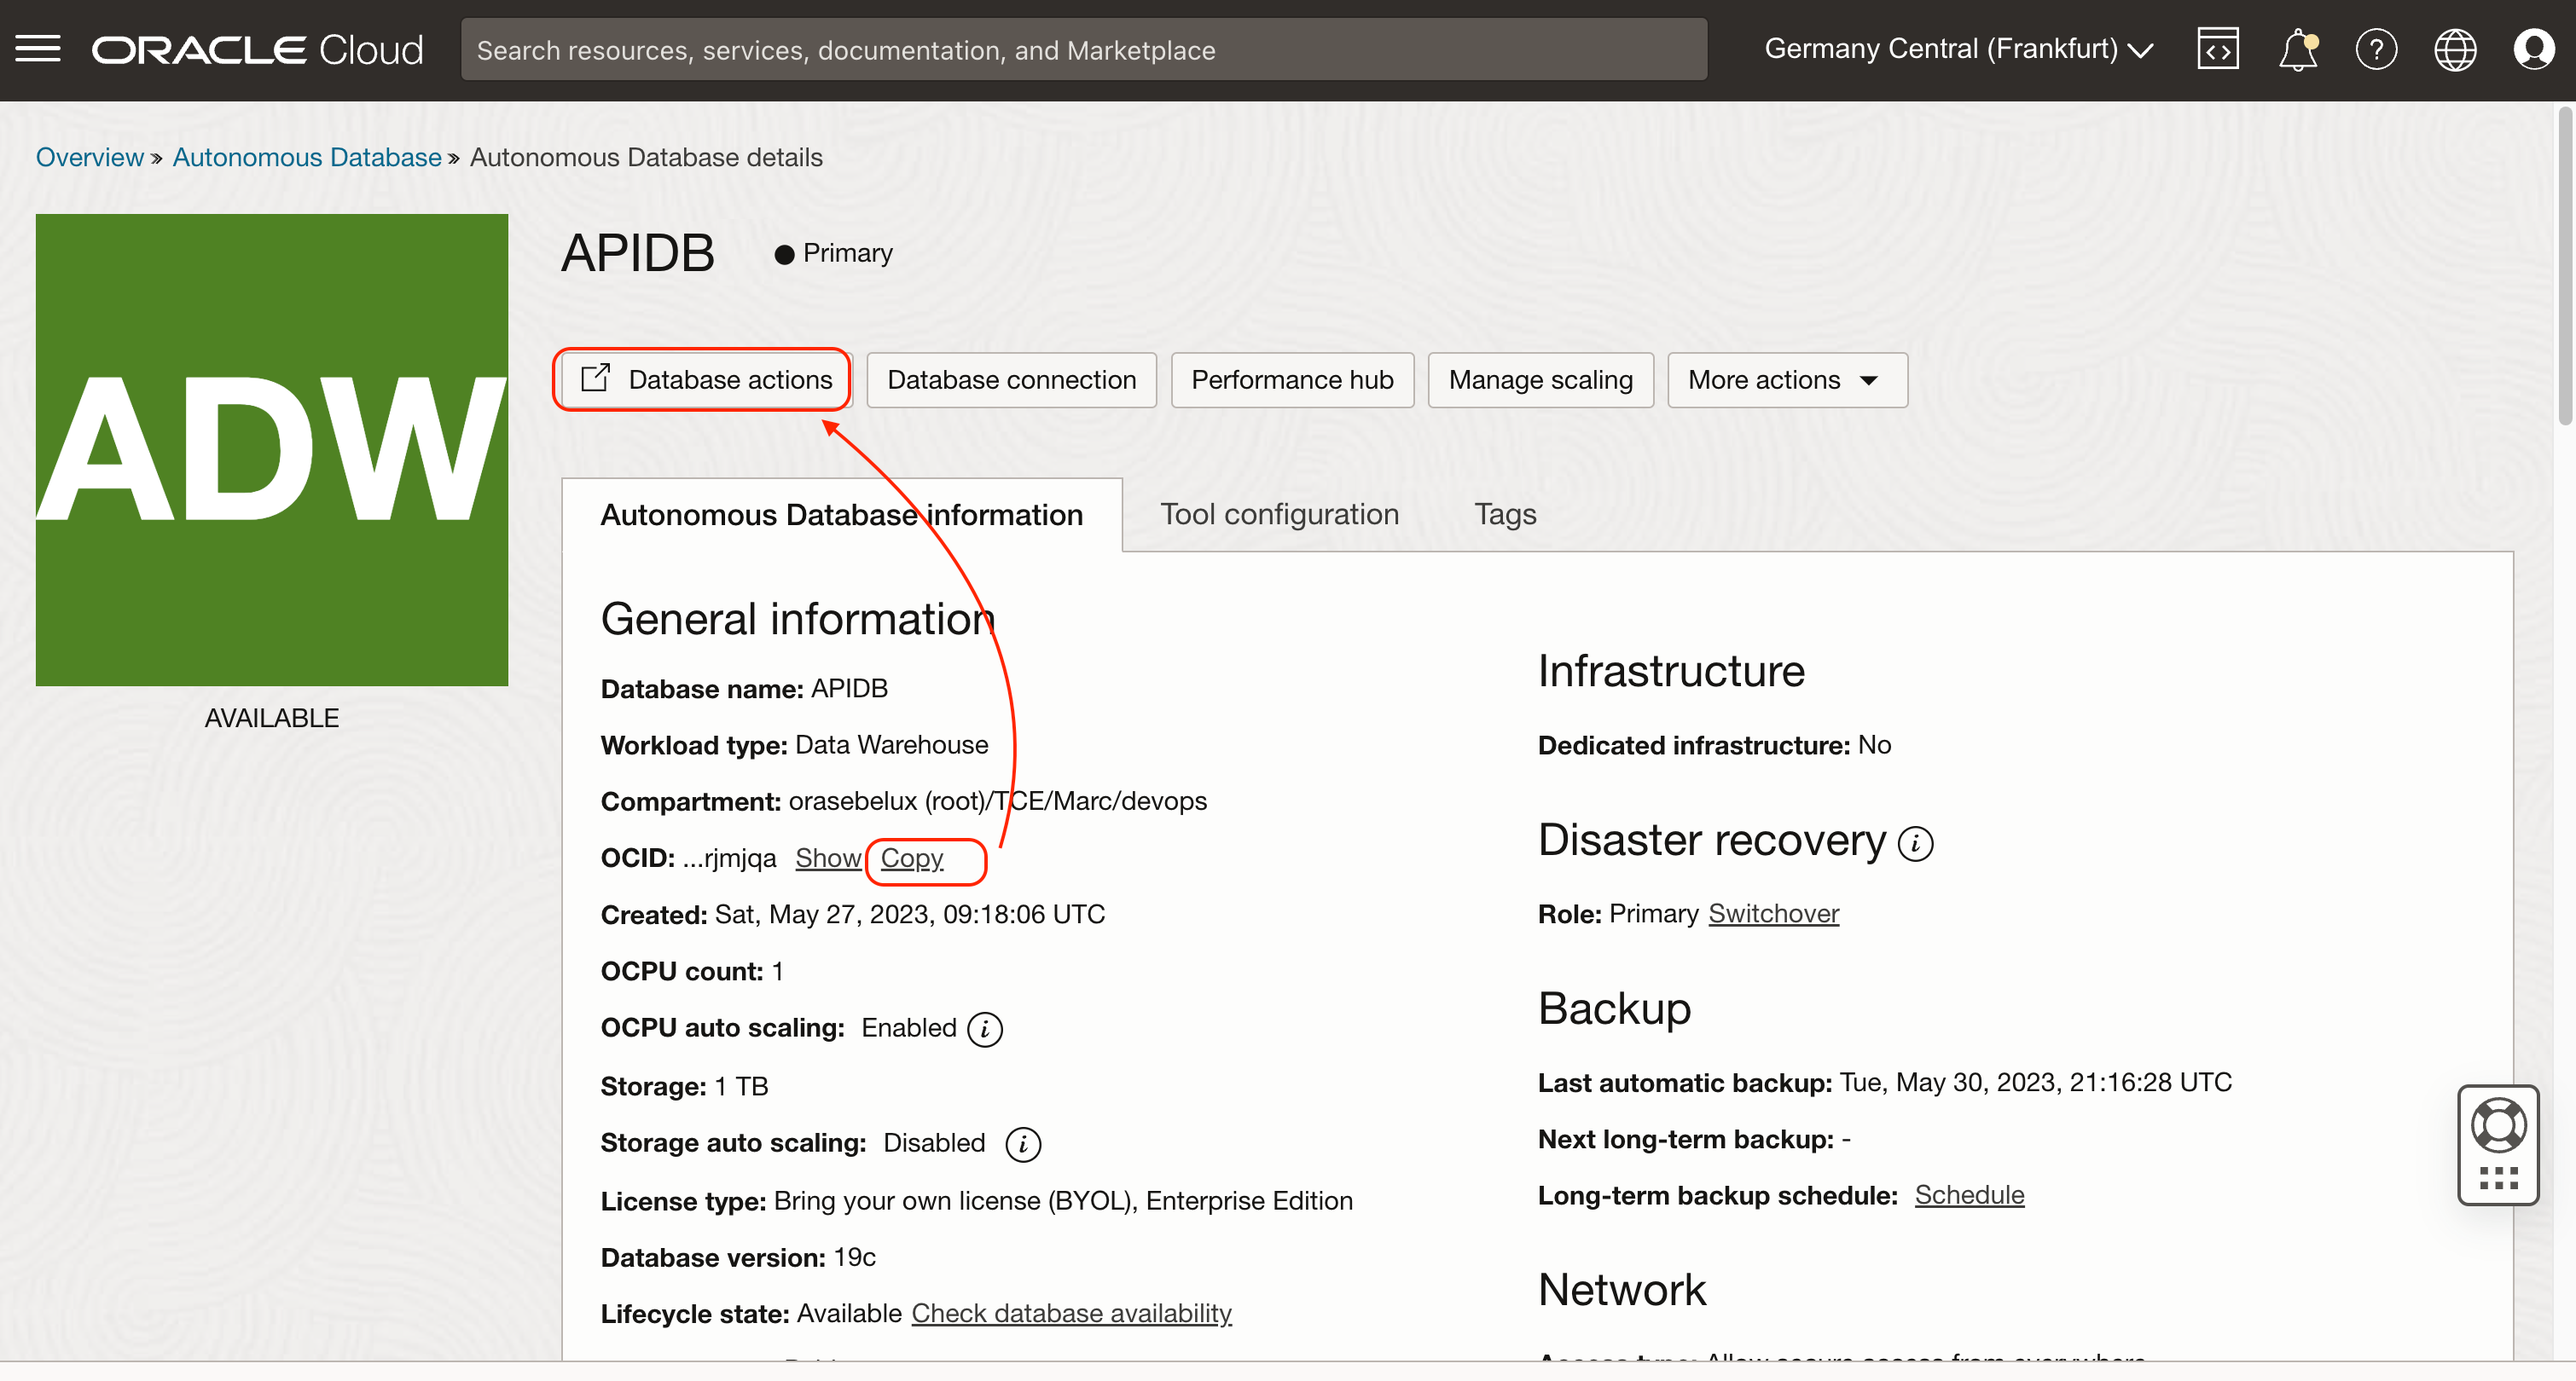
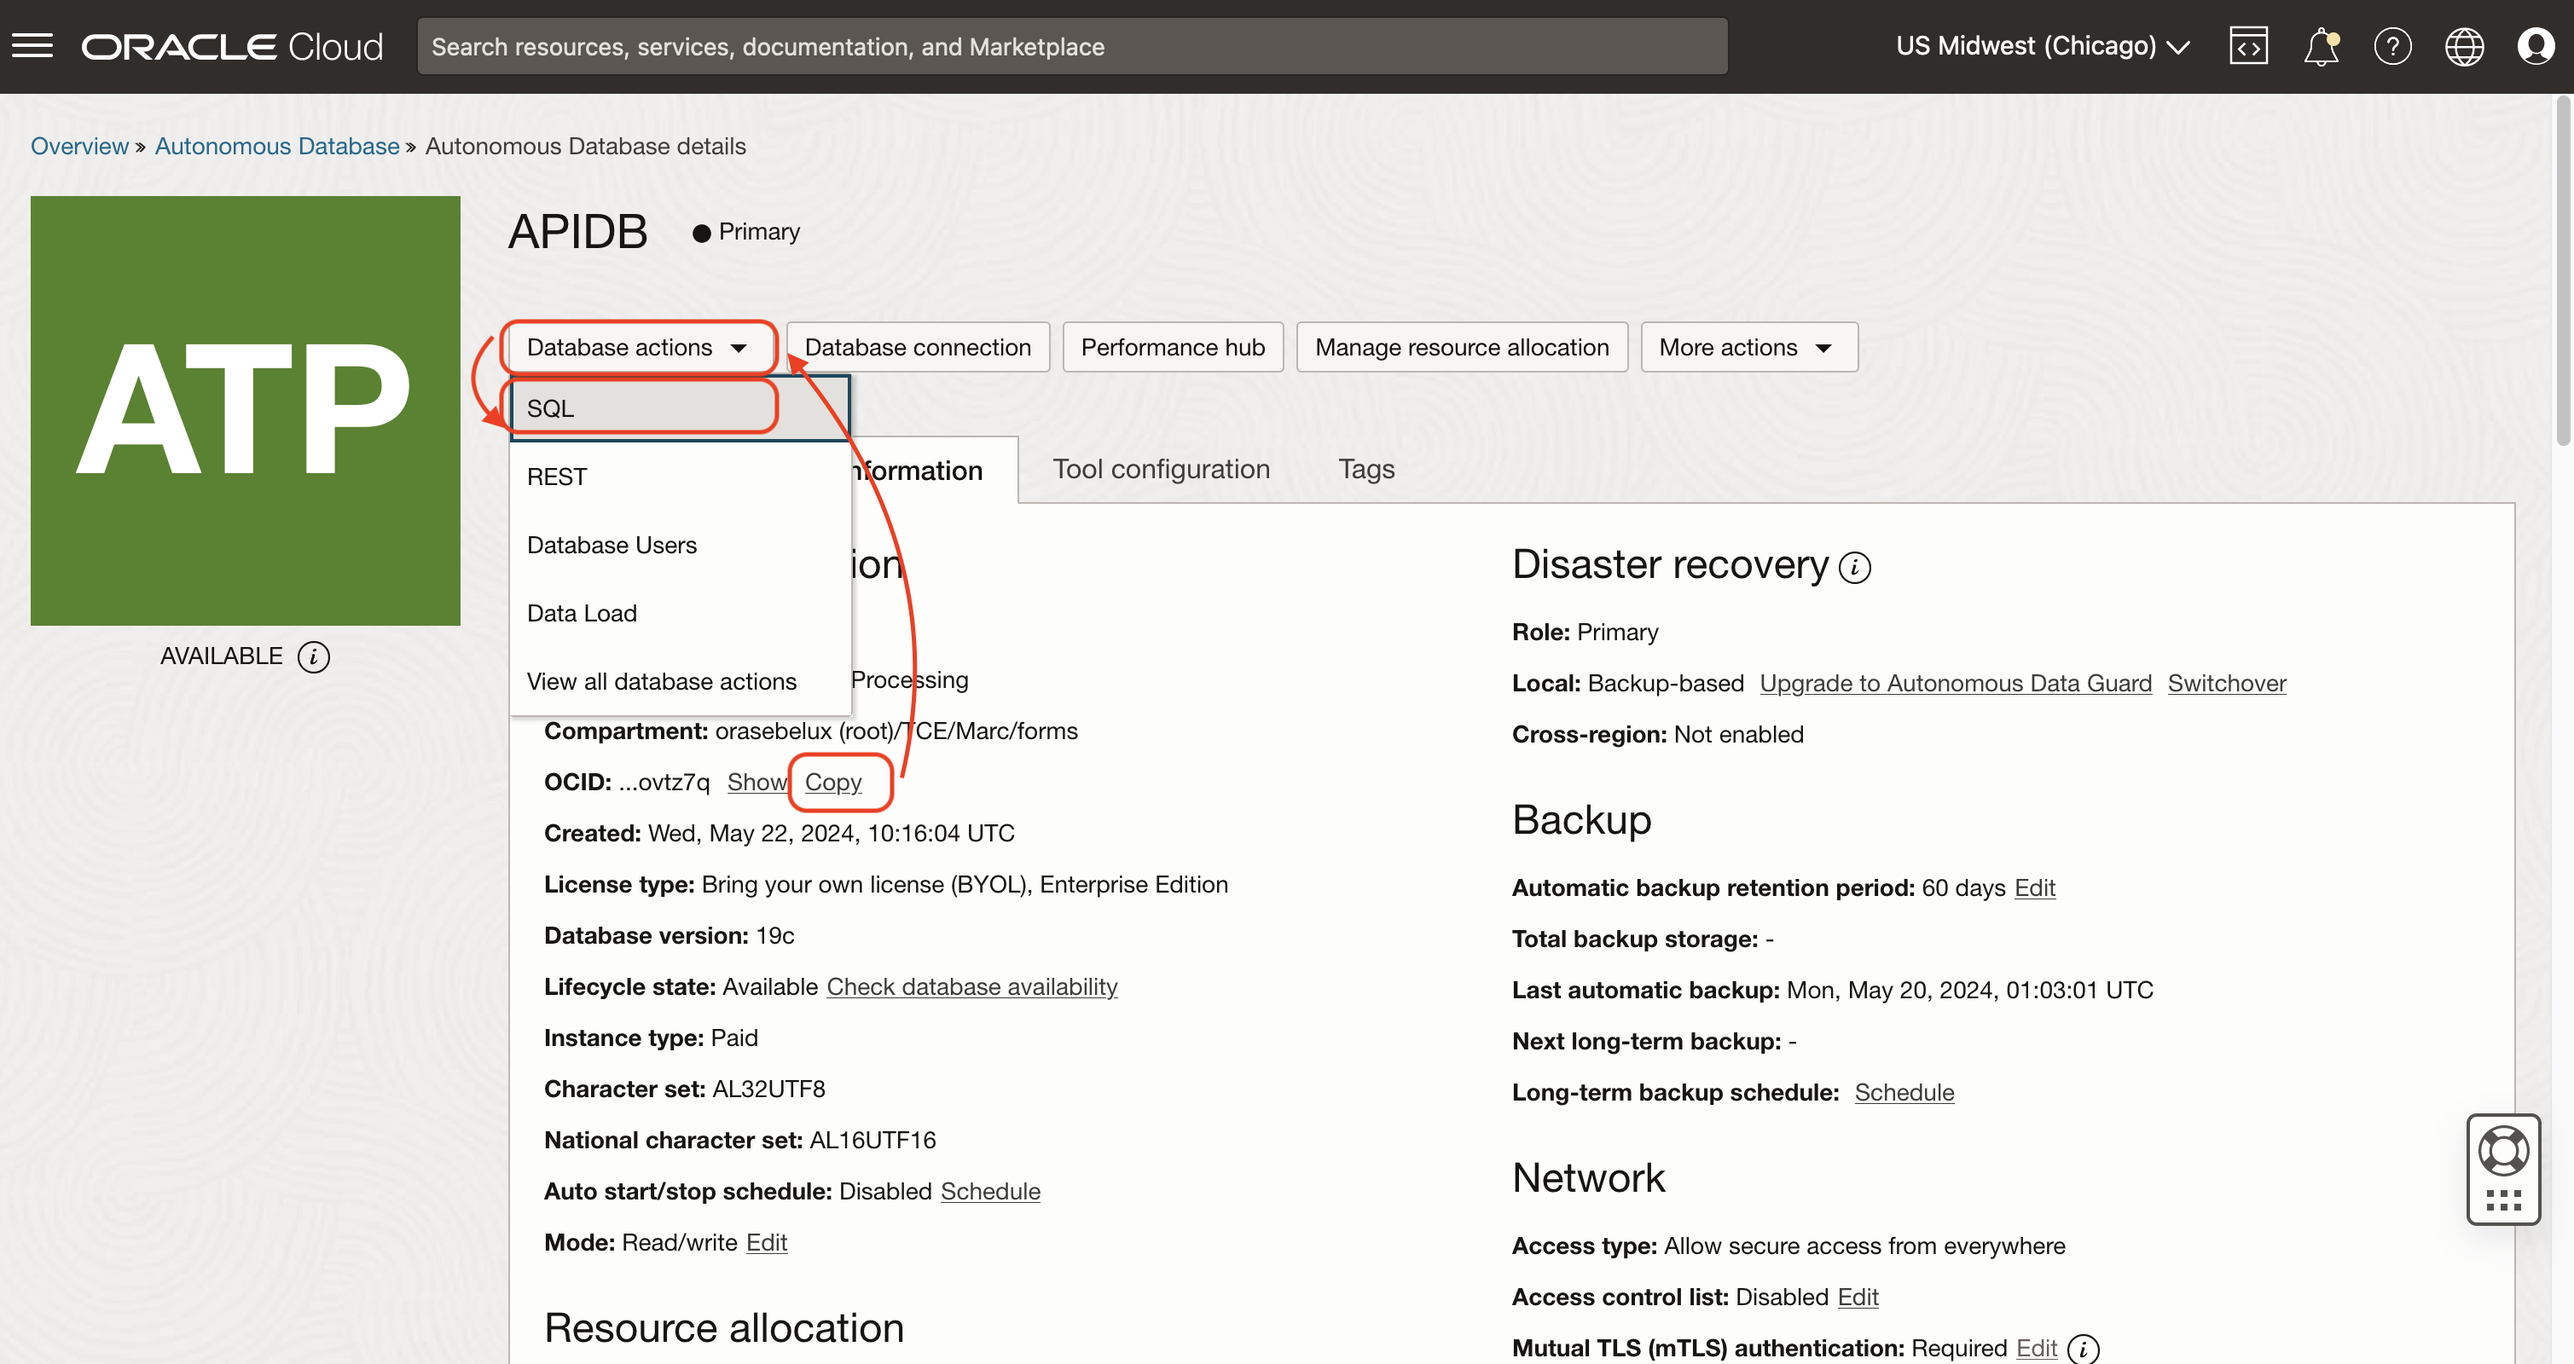
Database Actions

diff --git a/oci-api-management/installation/installation.md b/oci-api-management/installation/installation.md
@@ -99,11 +99,8 @@ First, let's create an Autonomous database.
 
 1. Go to the SQL interface
     In the page of the Autonomous Database,
-    - Click on *Database Actions* / *View all database Actions*
+    - Click on *Database Actions* / *SQL*
     - If you get a prompt asking for an user/password, enter ADMIN/##DB\_PASSWORD##
-    - Then *SQL*
-
-        ![Database Actions](images/apim-sql0.png)
 
 2. Run the following SQL to create the user API.
     - Replace the password in the schema creation to your own (to make it easy, let's use the same ADMIN user password by reusing ##DB_PASSWORD##) 
